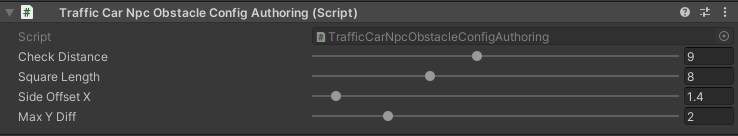
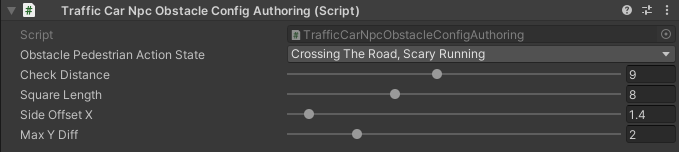
up

diff --git a/docs/source/trafficCarConfigs.rst b/docs/source/trafficCarConfigs.rst
@@ -26,17 +26,30 @@ Traffic Car Settings
 
 	.. image:: images/configs/traffic/TrafficCarSettingsConfig.png
 	
-**Entity type:**
-	* **Hybrid cube entity simple physics** :
-	* **Hybrid entity full physics** :
-	* **Pure entity full physics** :
-	* **Pure entity simple physics** :
-	* **Pure entity no physics** :
+
 	
+**Entity type:**
+	* **Hybrid cube entity simple physics**
+	* **Hybrid entity full physics** : :ref:`hybrid entities<entityType>` moved by the custom physical system (for example `VehicleMechanics <https://github.com/Unity-Technologies/EntityComponentSystemSamples/blob/master/PhysicsSamples/Assets/Demos/6.%20Use%20Cases/6d.%20Raycast%20Car/Scripts/VehicleMechanics.cs>`_)  
+	* **Pure entity full physics** : :ref:`pure entities<entityType>` moved by the custom physical system (for example `VehicleMechanics <https://github.com/Unity-Technologies/EntityComponentSystemSamples/blob/master/PhysicsSamples/Assets/Demos/6.%20Use%20Cases/6d.%20Raycast%20Car/Scripts/VehicleMechanics.cs>`_)  
+	* **Pure entity simple physics** : :ref:`pure entities<entityType>` moved by the simple physical system (simply adding physics velocity to the physics body).
+	* **Pure entity no physics** : :ref:`pure entities<entityType>` that moved by tranform system without physics.
+	
+.. _entityType:
+
+	.. note::
+		**Hybrid entity** : entities that combine dots entities and default GameObjects (game objects are tied by position to an entity).
+		**Pure entity** : entities work entirely in the dots space.
+	
+.. _trafficDetectObstacleMode:
+
 **Traffic car detect obstacle mode:**
 	* **Hybrid** : combine types `Calculate` and `Raycast`.
 	* **Calculate only** : mathematically calculates the obstacle.
 	* **Raycast only** : detect obstacle by raycast.
+	
+	.. note::
+		In hybrid mode, raycast is activated only when the selected targets are close to the car.
 	
 **Traffic car detect npc mode:**
 	* **Disabled** :
@@ -47,41 +60,51 @@ Traffic Car Settings
 	* **Car input** :
 	* **Follow target** :
 	
-| **Default lane speed km/h** :
-| **Max car speed km/h** :
-| **Acceleration magnitude** :
-| **Backward acceleration magnitude** :
-| **Brake power** :
-| **Max steer angle** :
-| **Steering damping** :
-| **Health amount** :
-**Has rotation lerp** :
-	**Rotation speed** :
-	**Rotation speed curve** :
+| **Default lane speed km/h** : default lane speed (if the lane speed limit is set to 0 the default speed will be selected).
+| **Max car speed km/h** : maximum speed of the car.
+| **Acceleration magnitude** : vehicle acceleration speed.
+| **Backward acceleration magnitude** : backward vehicle acceleration speed.
+| **Brake power** : brake power.
+| **Max steer angle** : max steer angle of the wheels.
+| **Steering damping** : wheel turn speed.
+| **Health amount** : amount of hit points of the car (health systems should be enabled).
+**Has rotation lerp** : [for `Simple physics` and `No physics` only]
+	**Rotation speed** : vehicle rotation speed.
+	**Rotation speed curve** : curve on the dependence of the speed of the car on its speed.
 	
-| **Cull wheels** :
+| **Cull wheels** : on/off wheel handling if they are outside the camera.
 | **Has nav obstacle** :
 	
 Traffic Car Nav Config
 ------------
 
+Config distance to target nodes and traffic light handlers.
+
 	.. image:: images/configs/traffic/TrafficCarNavConfigConfig.png
 	
-| **Min distance to target** :
-| **Min distance to path point target** :
-| **Min distance to new light** :
-| **Min distance from previous light** :
-| **Min distance to target route node** :
-| **Min distance to target rail route node** :
-**Out of path resolve method:** 
-	**Disabled** : 
-	**Switch node** : 
-	**Backward** : 
-	**Cull** : 
+| **Min distance to target** : min distance to target node.
+| **Min distance to path point target** : min distance to connected path point.
+| **Min distance to new light** : minimum distance to the :ref:`TrafficNode<trafficNode>` entity that contains the :ref:`traffic light handler<trafficLightHandler>` entity to assign it to the car entity (if the traffic node entity does not contain a traffic light entity, the index is -1).
+| **Min distance from previous light** : minimum distance from the :ref:`TrafficNode<trafficNode>` entity that contains the :ref:`traffic light handler<trafficLightHandler>` entity to unassign it from the car entity (if the traffic node entity does not contain a traffic light entity, the index is -1).
+| **Min distance to target route node** : minimum distance to switch to the next waypoint of the :ref:`path<path>`.
+| **Min distance to target rail route node** : minimum distance to switch to the next waypoint of the :ref:`path<path>` (rail movement only (tramc etc...)).
+**Out of path resolve method:** resolving method in case the car is out of the :ref:`path<path>`.
+	**Disabled** : no actions.
+	**Switch node** : switching to the next waypoint.
+	**Backward** : car will try to reach the missed waypoint by reversing.
+	**Cull** : car will be culled.
 | **Continious local node calculation** :
+
+	.. image:: images/configs/traffic/TrafficCarNavOutOfPathConfig.png
+	
+**Out of path resolve method [enabled]:**
+	**Min distance to out of path** : minimum distance from the missed waypoint to the car.
+	**Max distance to out of path** : maximum distance from the missed waypoint to the car.
 	
 Traffic Car Obstacle Config
 ------------
+
+Config to calculate obstacles on the path.
 
 	.. image:: images/configs/traffic/TrafficCarNavConfigConfig.png
 	
@@ -166,26 +189,32 @@ Traffic Car Obstacle Config
 Traffic Car Approach Config
 ------------
 
+Config of approaching obstacles and lights.
+
 	.. image:: images/configs/traffic/TrafficCarApproachConfig.png
 	
-| **Min approach speed** :
-| **On coming to the red light speed** :
-| **Stopping distance to light** :
+| **Min approach speed** : min approach speed.
+| **On coming to the red light speed** : slowing down the speed of the car when approaching a red light (if the segment speed limit is lower or the speed of the obstacles is lower, the lowest speed of all the conditions will be selected).
+| **Stopping distance to light** : distance at which the car slows down.
 	
 Traffic Car Raycast Config
 ------------
 
+Traffic car raycast Config (:ref:`TrafficDetectObstacleMode<trafficDetectObstacleMode>` raycast or hybrid should be enabled) (:ref:`example<trafficCarNpcObstacleDebugger>`).
+
 	.. image:: images/configs/traffic/TrafficCarRaycastConfig.png
 	
-| **Side offset** :
-| **Min/Max ray length** :
-| **Boxcast height** :
-| **Ray Y axis offset** :
-| **Dot direction** :
-| **Bounds multiplier** :
+| **Side offset** : width of raycast box.
+| **Min/Max ray length** : lenght of raycast box.
+| **Boxcast height** : height raycast box.
+| **Ray Y axis offset** : y-offset position box.
+| **Dot direction** : if the raycast is set to :ref:`Hybrid mode<trafficDetectObstacleMode>` than only those targets that are in front of the car with the set dot parameter will be raycasted.
+| **Bounds multiplier** : value by which the bounds is multiplied.
 	
 Traffic Car Change Lane Config
 ------------
+
+Config for automatic calculation of lane change by traffic (works for :ref:`paths<path>` with the `Straight road` :ref:`road type<pathRoadType>` only).
 
 	.. image:: images/configs/traffic/TrafficCarChangeLaneConfig.png
 	
@@ -228,40 +257,49 @@ Traffic Car Change Lane Config
 Traffic Car Npc Obstacle Config
 ------------
 
+Config to calculate npc obstacles (:ref:`example<trafficCarNpcObstacleDebugger>`).
+
 	.. image:: images/configs/traffic/TrafficCarNpcObstacleConfig.png
 	
-| **Check distance** :
-| **Square length** :
-| **Side offset X** :
-| **Max Y diff** :
+| **Obstacle pedestrian action state** : will only react to pedestrians with the selected :ref:`PedestrianActionState<pedestrianActionState>`.
+| **Check distance** : obstacle calculation length.
+| **Square length** : length of the obstacle calculation square.
+| **Side offset X** : width of the obstacle calculation square.
+| **Max Y diff** : maximum difference in Y-axis position between the car and the npc.
 	
 Traffic Car Parking Config
 ------------
 
 	.. image:: images/configs/traffic/TrafficCarParkingConfig.png
 
-**Rotation aligment at node support** :
-	**Rotation speed** :
-	**Complete angle** :
+**Rotation aligment at node support** : on/off car automatically turns in alignment with the parking node.
+	**Rotation speed** : rotation speed.
+	**Complete angle** : angle at which the rotation is complete.
+		
+.. _trafficCarAntistuckConfig:
 		
 Traffic Car Antistuck Config
 ------------
 
+Config to culling car in case of stuckness.
+
 	.. image:: images/configs/traffic/TrafficCarAntistuckConfig.png
 
-| **Obstacle stuck time** :
-| **Stuck distance difference** :
-| **Cull of out the camera only** :
+| **Obstacle stuck time** : duration of sighting of the obstacle after which the car will be culled.
+| **Stuck distance difference** : if the car moved more than the parameter distance the `Obstacle stuck time` is reset.
+| **Cull of out the camera only** : car will be culled only if it is out of the camera's range of vision.
 	
-Traffic Car Horne config
+Traffic Car Horn Config
 ------------
 
-	.. image:: images/configs/traffic/TrafficCarHorneConfig.png
+Config to sound random horns when an obstacle is detected. It can be disabled (:ref:`here<soundConfig>`).
 
-| **Chance to start** :
-| **Idle time to start** :
-| **Delay** :
-| **Horne duration** :
+	.. image:: images/configs/traffic/TrafficCarHornConfig.png
+
+| **Chance to start** : chance to start the horn.
+| **Idle time to start** : idle time to start the horn.
+| **Delay** : delay between horns.
+| **Horn duration** : horn duration.
 	
 Public Traffic Configs
 ============
@@ -271,8 +309,8 @@ Traffic Public Spawner Settings
 
 	.. image:: images/configs/traffic/TrafficPublicSpawnerSettings.png
 	
-| **Spawn frequency** :
-| **Traffic public to car model dictionary** :
+| **Spawn frequency** : spawning frequency.
+| **Traffic public to car model dictionary** : contains data on which :ref:`CarModel<carModel>` belong to :ref:`TrafficPublicType<trafficPublicType>`.
 
 
 

diff --git a/docs/source/commonConfigs.rst b/docs/source/commonConfigs.rst
@@ -34,7 +34,7 @@ General Settings Config
 	**Has traffic** : on/off traffic vehicle in the city.	
 	**Change lane support** : on/off feature to change lanes for traffic.
 	**Traffic public support** : on/off public traffic vehicle in the city.	
-	**Antistuck support** :	on/off antistuck feature for traffic vehicles.	
+	**Antistuck support** :	on/off :ref:`antistuck<trafficCarAntistuckConfig>` feature for traffic vehicles.	
 	**Car hit collision reaction** : on/off traffic collision reaction to other traffic cars.
 	**Wheel system support** : on/off simple wheel system for traffic vehicles.	
 	**Has pedestrian** : on/off pedestrians in the city.	
@@ -81,6 +81,8 @@ Player Npc Sound Config
 	
 Sound Configs
 -------------------	
+
+.. _soundConfig:
 
 Common Sound Config
 ~~~~~~~~~~~~

diff --git a/docs/source/path.rst b/docs/source/path.rst
@@ -48,6 +48,8 @@ Settings
 	* **Bezier cube** : bezier cube curved line.
 	* **Bezier quad** : bezier quad curved line.
 	
+.. _pathRoadType:
+	
 **Path road type:**
 	* **Straight road** : is used to automatically calculate lane changing by traffic.
 	* **Turn road**

diff --git a/docs/source/trafficPublic.rst b/docs/source/trafficPublic.rst
@@ -1,0 +1,21 @@
+.. _trafficPublic:
+
+Traffic Public
+=====
+
+Installation
+------------
+
+
+.. _trafficPublicType:
+
+------------
+TrafficPublicType
+
+
+Traffic Public route
+=====
+
+Installation
+------------
+

diff --git a/docs/source/testScenes.rst b/docs/source/testScenes.rst
@@ -1,0 +1,21 @@
+.. _testScenes:
+
+Traffic Test Scene
+=====
+
+Installation
+------------
+
+
+Pedestrian Test Scene
+=====
+
+Installation
+------------
+
+
+Common Test Scene
+=====
+
+Installation
+------------

diff --git a/docs/source/debuggers.rst b/docs/source/debuggers.rst
@@ -8,3 +8,9 @@ Debuggers
 
 Installation
 ============
+
+
+.. _trafficCarNpcObstacleDebugger:
+
+TrafficCarNpcObstacleDebugger
+------------

diff --git a/docs/source/pedestrian.rst b/docs/source/pedestrian.rst
@@ -16,6 +16,9 @@ Baked
 Authoring components
 ----------------
 
+
+.. _pedestrianActionState:
+
 States
 ----------------
 

diff --git a/docs/source/pedestrianNodeCreator.rst b/docs/source/pedestrianNodeCreator.rst
@@ -1,0 +1,7 @@
+.. _pedestrianNodeCreator:
+
+PedestrianNode Creator
+=====
+
+Installation
+------------
